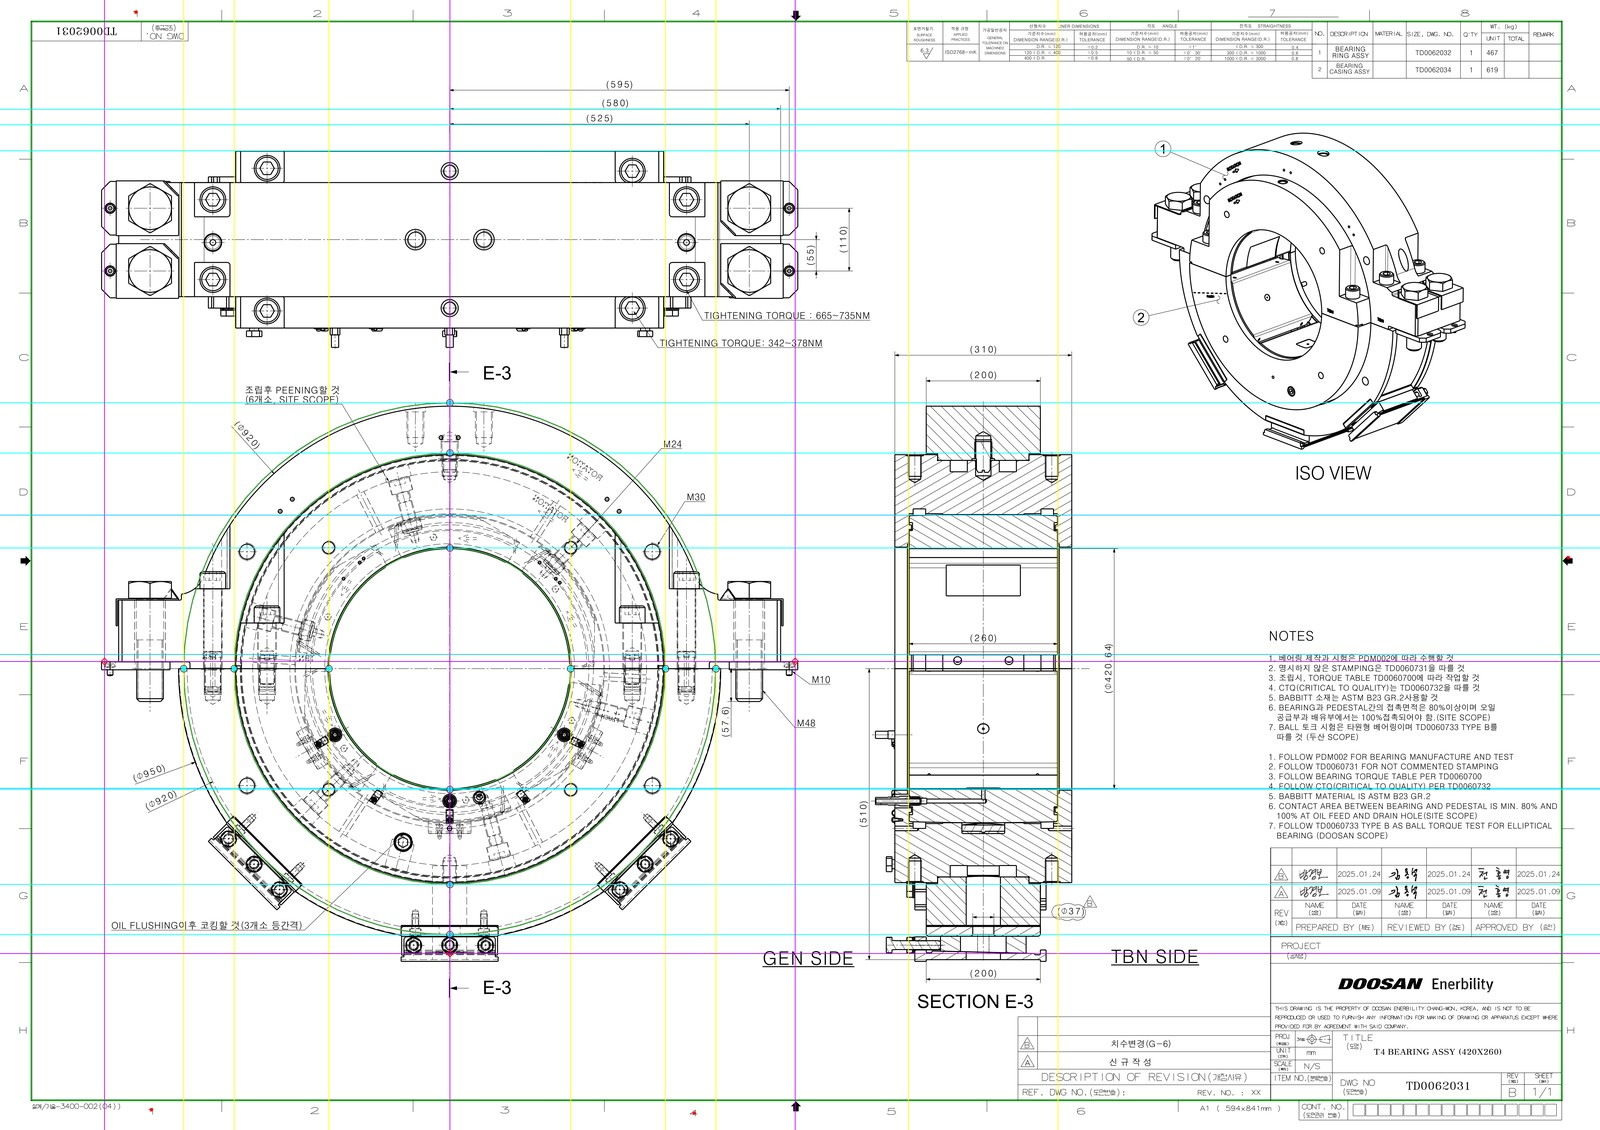
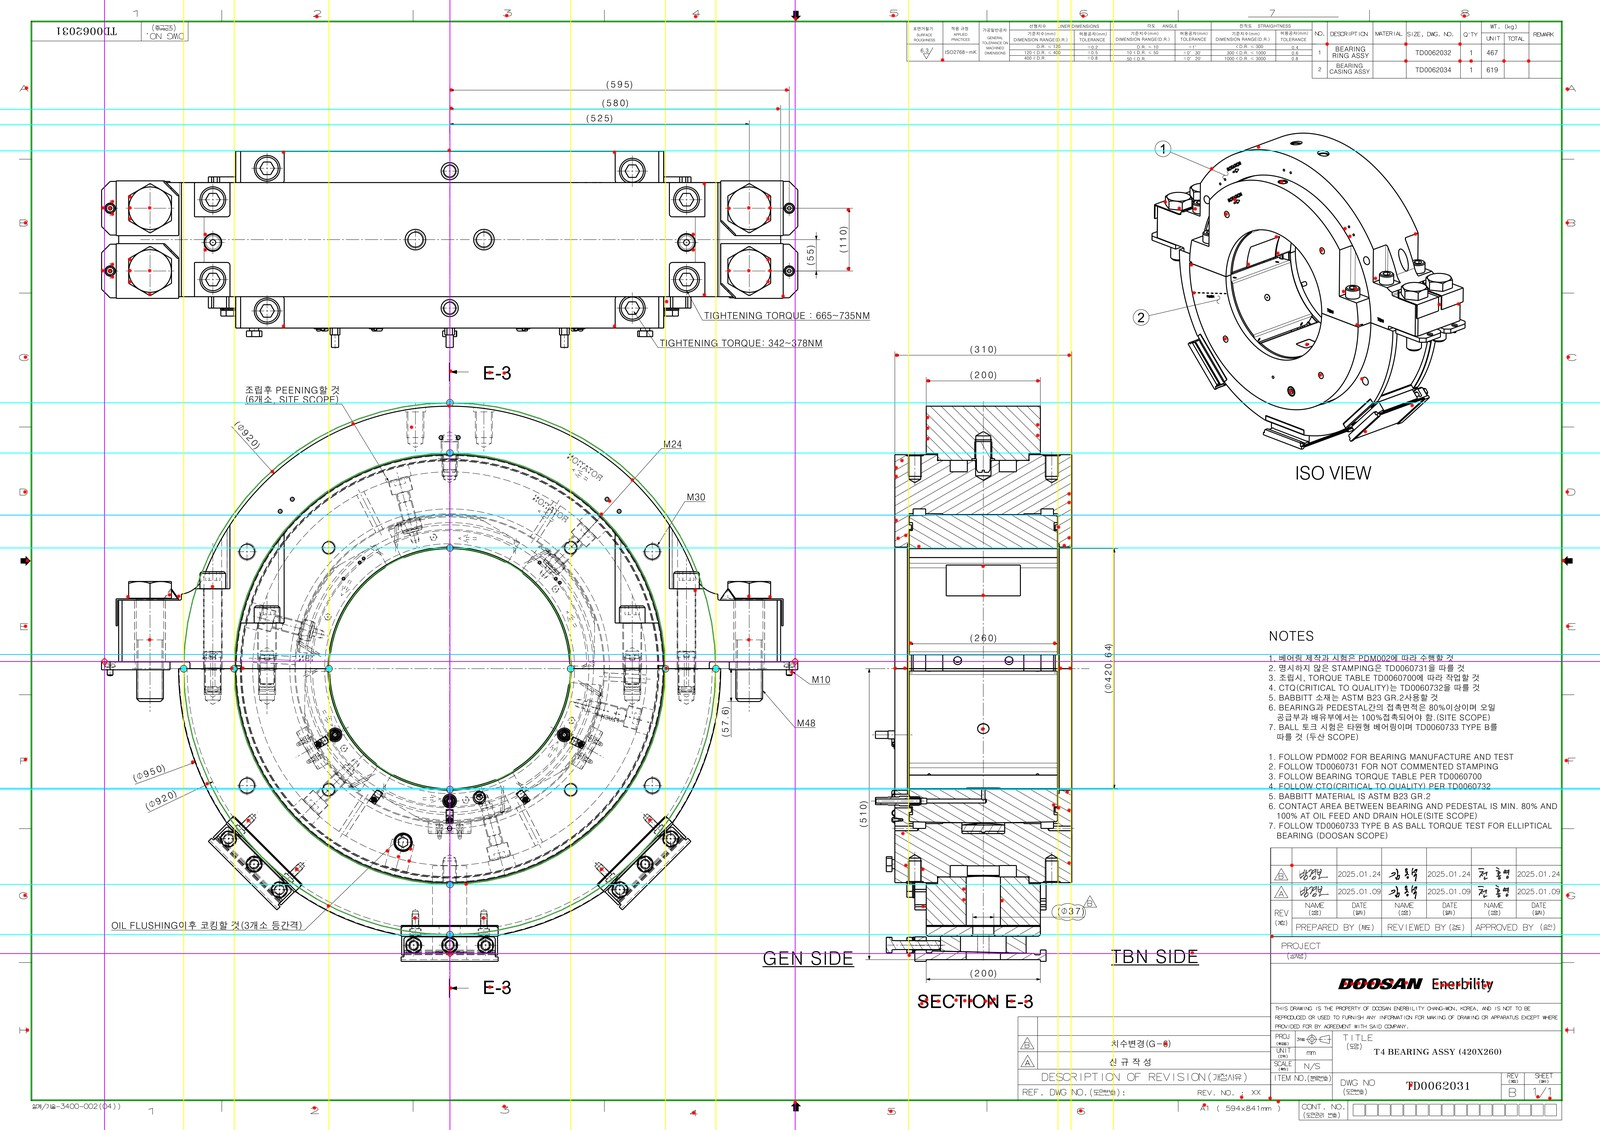
Fix high-res S01 arrowhead detection

diff --git a/blueprint-ai-bom/scripts/s01_cardinal_integration.py b/blueprint-ai-bom/scripts/s01_cardinal_integration.py
@@ -37,6 +37,8 @@ OUT_DIR = Path("/home/uproot/ax/poc/docs-site-starlight/public/images/gt-validat
 OUT_DIR.mkdir(exist_ok=True)
 
 OCR_API = "http://localhost:5006/api/v1/ocr"
+DOWNSCALE_MIN_SHORT_SIDE = 3000
+DOWNSCALE_TARGET_SHORT_SIDE = 2339
 
 GT: Dict[str, Dict[str, Any]] = {
     "TD0062015": {"name": "t1", "od": 360, "id": 190, "w": 200},
@@ -98,6 +100,66 @@ def run_ocr(image_path: Path) -> List[Dict[str, Any]]:
         )
     response.raise_for_status()
     return response.json().get("detections", [])
+
+
+def prepare_arrowhead_detection_image(gray: np.ndarray) -> Tuple[np.ndarray, Dict[str, Any]]:
+    height, width = gray.shape[:2]
+    short_side = min(height, width)
+    if short_side < DOWNSCALE_MIN_SHORT_SIDE:
+        return gray, {"applied": False, "scale_x": 1.0, "scale_y": 1.0}
+
+    # @AX:WARN — 6623x4678 원본은 Black Hat 커널이 31px까지 커져 화살촉이 배경에 묻힌다.
+    downscale_ratio = DOWNSCALE_TARGET_SHORT_SIDE / float(short_side)
+    resized = cv2.resize(
+        gray,
+        None,
+        fx=downscale_ratio,
+        fy=downscale_ratio,
+        interpolation=cv2.INTER_AREA,
+    )
+    resized_height, resized_width = resized.shape[:2]
+    return resized, {
+        "applied": True,
+        "original_width": width,
+        "original_height": height,
+        "resized_width": resized_width,
+        "resized_height": resized_height,
+        "scale_x": width / float(resized_width),
+        "scale_y": height / float(resized_height),
+    }
+
+
+def restore_arrowheads_to_original_scale(
+    arrowheads: List[Dict[str, Any]],
+    scale_meta: Dict[str, Any],
+) -> List[Dict[str, Any]]:
+    if not scale_meta.get("applied"):
+        return arrowheads
+
+    original_width = int(scale_meta["original_width"])
+    original_height = int(scale_meta["original_height"])
+    scale_x = float(scale_meta["scale_x"])
+    scale_y = float(scale_meta["scale_y"])
+    restored: List[Dict[str, Any]] = []
+
+    for arrow in arrowheads:
+        bbox = arrow.get("bbox", {})
+        restored.append(
+            {
+                **arrow,
+                "x": float(np.clip(float(arrow["x"]) * scale_x, 0, original_width - 1)),
+                "y": float(np.clip(float(arrow["y"]) * scale_y, 0, original_height - 1)),
+                "bbox": {
+                    "x1": int(np.clip(round(float(bbox.get("x1", 0)) * scale_x), 0, original_width)),
+                    "y1": int(np.clip(round(float(bbox.get("y1", 0)) * scale_y), 0, original_height)),
+                    "x2": int(np.clip(round(float(bbox.get("x2", 0)) * scale_x), 0, original_width)),
+                    "y2": int(np.clip(round(float(bbox.get("y2", 0)) * scale_y), 0, original_height)),
+                },
+                "area": float(arrow.get("area", 0.0)) * scale_x * scale_y,
+            }
+        )
+
+    return restored
 
 
 def normalize_ocr_bbox(bbox: Any) -> Optional[Tuple[List[float], List[float]]]:
@@ -492,8 +554,20 @@ def run() -> None:
         print(f"  [1] ALT 동심원: {len(circles_full)}개")
         print(f"  [2] 투사선: {len(projection_lines)}개")
 
-        arrowheads = detect_arrowheads(gray)
-        print(f"  [3] S01 화살촉: {len(arrowheads)}개")
+        detection_gray, scale_meta = prepare_arrowhead_detection_image(gray)
+        arrowheads = restore_arrowheads_to_original_scale(
+            detect_arrowheads(detection_gray),
+            scale_meta,
+        )
+        if scale_meta.get("applied"):
+            print(
+                "  [3] S01 화살촉: "
+                f"{len(arrowheads)}개 "
+                f"(detect {scale_meta['resized_width']}x{scale_meta['resized_height']} "
+                f"-> orig {scale_meta['original_width']}x{scale_meta['original_height']})"
+            )
+        else:
+            print(f"  [3] S01 화살촉: {len(arrowheads)}개")
 
         if args.projection_arrows_only:
             pil = visualize_projection_arrowheads_only(
